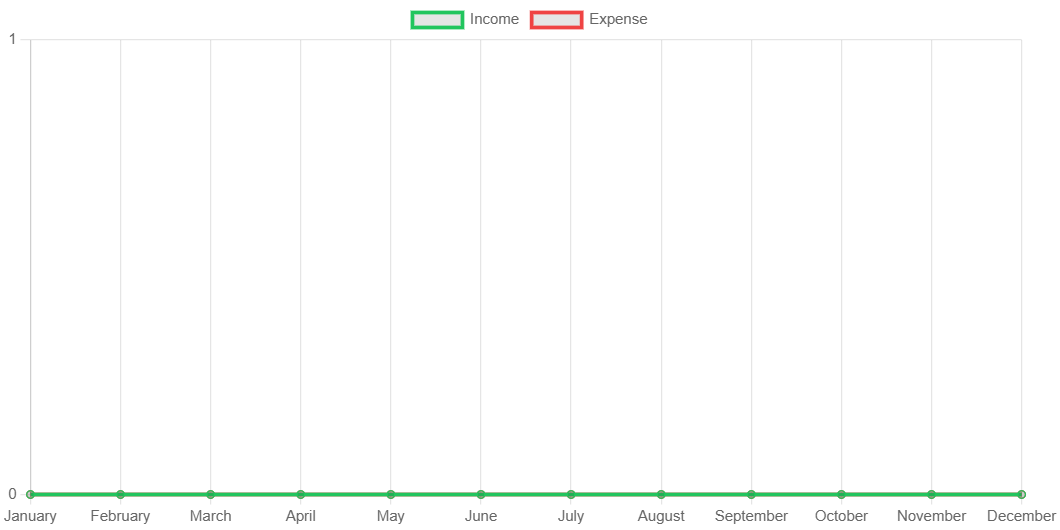
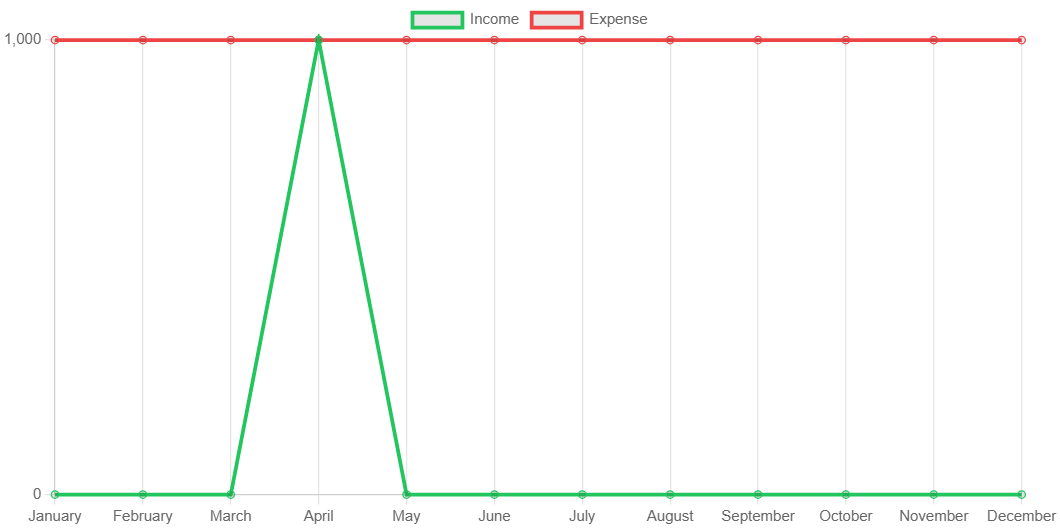
commit-39#23042025(final)

diff --git a/expensetracker/src/main/resources/templates/user-access-url/add-expense.html b/expensetracker/src/main/resources/templates/user-access-url/add-expense.html
@@ -58,23 +58,30 @@
                         Category
                     </label>
 
-                    <!-- categories == list passed from the controller to view by addattribute-->
-                    <!-- category == iterator used to iterate over list-->
-                    <select class="w-full p-3 border border-gray-300 rounded-xl bg-gray-100" name="category">
-                        <!-- Check if categories are empty -->
+                    <select class="w-full p-3 border border-gray-300 rounded-xl bg-gray-100"
+                            name="category.categoryID">
+
+                        <!-- If no categories exist -->
                         <option th:if="${categories == null or categories.isEmpty()}" disabled>No categories added</option>
 
-                        <!-- If categories exist, render options -->
-                        <option th:if="${categories != null and not categories.isEmpty()}" value="" >Select a category</option>
+                        <!-- Placeholder option -->
+                        <option th:if="${categories != null and not categories.isEmpty()}"
+                                value="" disabled selected>Select a category</option>
 
-                        <option th:each="category : ${categories}"   th:value="${category.categoryName}" th:text="${category.categoryName}"></option>
+                        <!-- Render categories -->
+                        <option th:each="cat : ${categories}"
+                                th:value="${cat.categoryID}"
+                                th:text="${cat.categoryName}"
+                                th:selected="${expense.category != null and expense.category.categoryID == cat.categoryID}">
+                        </option>
                     </select>
 
-                    <div th:if="${#fields.hasErrors('category')}" class="text-red-500 text-sm mt-1">
-                        <p th:each="e : ${#fields.errors('category')}" th:text="${e}"></p>
+                    <!-- Field-level validation message -->
+                    <div th:if="${#fields.hasErrors('category.categoryID')}" class="text-red-500 text-sm mt-1">
+                        <p th:each="e : ${#fields.errors('category.categoryID')}" th:text="${e}"></p>
                     </div>
-
                 </div>
+
 
 
                 <div>

diff --git a/expensetracker/src/main/java/com/codelab/expensetracker/controllers/UserAccessUrlController.java b/expensetracker/src/main/java/com/codelab/expensetracker/controllers/UserAccessUrlController.java
@@ -613,54 +613,39 @@ public class UserAccessUrlController {
         return "user-access-url/add-expense";
     }
 
-    
+
     @PostMapping("/add-expense-process")
-    public String addExpenseForm(@Valid @ModelAttribute("expense") @DateTimeFormat(iso = DateTimeFormat.ISO.DATE) Expense expense,
+    public String addExpenseForm(@Valid @ModelAttribute("expense") Expense expense,
                                  BindingResult bindingResult,
                                  Model model,
-                                 Principal principal,
-                                 @RequestParam("category") String category){
+                                 Principal principal) {
         String name = principal.getName();
         User user = this.userRepository.getUserByName(name);
         model.addAttribute("user", user);
 
-        try {
-            if (bindingResult.hasErrors()) {
-                List<Category> categoryList = this.categoryRepository.ListOfCategoryByUser(user.getUserId());
-                model.addAttribute("categories", categoryList);
-                System.out.println("failed");
-                System.out.println(bindingResult.getAllErrors());
-                return "user-access-url/add-expense";
-            }
-
-            if (category == null) {
-                bindingResult.rejectValue("category", "error.category", "Please select category");
-            }
-        } catch (Exception e) {
-            e.printStackTrace();
+        if (bindingResult.hasErrors()) {
+            List<Category> categoryList = this.categoryRepository.ListOfCategoryByUser(user.getUserId());
+            model.addAttribute("categories", categoryList);
+            model.addAttribute("page", "addExpense");
+            return "user-access-url/add-expense";
         }
 
-        // Convert the bound LocalDate to LocalDateTime 
+        // Set user and datetime
+        expense.setUser(user);
         if (expense.getDate() != null) {
-            LocalTime currentTime = LocalTime.now();
-            expense.setLocalDateTime(LocalDateTime.of(expense.getDate(), currentTime));
+            expense.setLocalDateTime(LocalDateTime.of(expense.getDate(), LocalTime.now()));
         }
 
-        
-
-        System.out.println(expense.toString());
+        this.expenseRepository.save(expense);
         List<Category> categoryList = this.categoryRepository.ListOfCategoryByUser(user.getUserId());
         model.addAttribute("categories", categoryList);
-        
-        System.out.println(expense.getLocalDateTime());
-        
-        expense.setUser(user);
-        this.expenseRepository.save(expense);
+        model.addAttribute("page", "addExpense");
 
         return "user-access-url/add-expense";
     }
 
-@GetMapping("/expense-history/{page}")
+
+    @GetMapping("/expense-history/{page}")
 public String expenseHistory(
         Model model,
         Principal principal,
@@ -836,8 +821,11 @@ public String expenseHistory(
         Double totalIncome = null;  
         Double netSavings = null;
 
-        LocalDateTime startOfMonth = LocalDate.now().withDayOfMonth(1).atStartOfDay();
-        LocalDateTime endOfMonth = LocalDate.now().withDayOfMonth(LocalDate.now().lengthOfMonth()).atTime(LocalTime.MAX);
+        LocalDateTime startOfMonth = LocalDate.of(2025, 4, 1).atStartOfDay();
+        LocalDateTime endOfMonth = LocalDate.of(2025, 4, 30).atTime(LocalTime.MAX);
+
+        //LocalDateTime startOfMonth = LocalDate.now().withDayOfMonth(1).atStartOfDay();
+        //LocalDateTime endOfMonth = LocalDate.now().withDayOfMonth(LocalDate.now().lengthOfMonth()).atTime(LocalTime.MAX);
 
         int month = LocalDate.now().getMonthValue();
         int year = LocalDate.now().getYear();
@@ -848,13 +836,13 @@ public String expenseHistory(
         switch (duration) {
             case "monthly":
                 totalExpense = this.expenseRepository.findSumOfExpensesForCurrentMonth(user, startOfMonth, endOfMonth);
-                System.out.println(totalExpense);
+                System.out.println(startOfMonth);
+                System.out.println(endOfMonth);
                 totalIncome = this.incomeRepository.findSumOfIncomeForCurrentMonth(user, startOfMonth, endOfMonth);
+                System.out.println(totalIncome);
                 totalExpense = (totalExpense == null) ? 0.0 : totalExpense;
                 totalIncome = (totalIncome == null) ? 0.0 : totalIncome;
                 
-                
-
                 netSavings = totalIncome - totalExpense;
                 break;
 
@@ -875,8 +863,8 @@ public String expenseHistory(
                 LocalDateTime startOfQuarter = startDate.atStartOfDay();
                 LocalDateTime endOfQuarter = endDate.atTime(LocalTime.MAX);
 
-                totalExpense = this.expenseRepository.findSumOfExpenseForQuarter(user, startOfQuarter, endOfQuarter);
-                totalIncome = this.incomeRepository.findSumOfIncomeForQuarter(user, startOfQuarter, endOfQuarter);
+                totalExpense = this.expenseRepository.findSumOfExpenseForCurrentQuarter(user, startOfQuarter, endOfQuarter);
+                totalIncome = this.incomeRepository.findSumOfIncomeForCurrentQuarter(user, startOfQuarter, endOfQuarter);
                 totalExpense = (totalExpense != null) ? totalExpense : 0.0;
                 totalIncome = (totalIncome != null) ? totalIncome : 0.0;
 
@@ -891,8 +879,8 @@ public String expenseHistory(
                 LocalDateTime startOfYear = startDate.atStartOfDay();
                 LocalDateTime endOfYear = endDate.atTime(LocalTime.MAX);
 
-                totalIncome = this.incomeRepository.findSumOfIncomeForYear(user, startOfYear, endOfYear);
-                totalExpense = this.expenseRepository.findSumOfExpenseForYear(user, startOfYear, endOfYear);
+                totalIncome = this.incomeRepository.findSumOfIncomeForCurrentYear(user, startOfYear, endOfYear);
+                totalExpense = this.expenseRepository.findSumOfExpenseForCurrentYear(user, startOfYear, endOfYear);
                 totalExpense = (totalExpense != null) ? totalExpense : 0.0;
                 totalIncome = (totalIncome != null) ? totalIncome : 0.0;
 

diff --git a/expensetracker/src/main/java/com/codelab/expensetracker/repositories/ExpenseRepository.java b/expensetracker/src/main/java/com/codelab/expensetracker/repositories/ExpenseRepository.java
@@ -26,21 +26,27 @@ public interface ExpenseRepository extends JpaRepository<Expense, Integer>, JpaS
     Page<Expense> findTransactionsByUser(@Param("user") User user, Pageable pageable);
     
     @Query("SELECT SUM(e.amount)  From Expense e WHERE e.user = :user ")
-    double findSumOfExpensesOfUserByUser(@Param("user") User user);
+    Double findSumOfExpensesOfUserByUser(@Param("user") User user);
+    
+    
+    
+    
+    
+    
 
-    @Query("SELECT COALESCE(SUM(e.amount), 0.0) FROM Expense e WHERE e.user = :user AND e.dateTime BETWEEN :startOfMonth AND :endOfMonth")
+    @Query("SELECT SUM(e.amount) FROM Expense e WHERE e.user = :user AND e.dateTime BETWEEN :startOfMonth AND :endOfMonth")
      Double findSumOfExpensesForCurrentMonth(@Param("user") User user,
                                             @Param("startOfMonth") LocalDateTime startOfMonth,
                                             @Param("endOfMonth") LocalDateTime endOfMonth);
 
 
     @Query("SELECT SUM(e.amount) FROM Expense e WHERE e.user = :user AND e.dateTime BETWEEN :startOfQuarter AND :endOfQuarter")
-    Double findSumOfExpenseForQuarter(@Param("user") User user,
+    Double findSumOfExpenseForCurrentQuarter(@Param("user") User user,
                                      @Param("startOfQuarter") LocalDateTime startOfQuarter,
                                      @Param("endOfQuarter") LocalDateTime endOfQuarter);
 
     @Query("SELECT SUM(e.amount) FROM Expense e WHERE e.user = :user AND e.dateTime BETWEEN :startOfYear AND :endOfYear")
-    Double findSumOfExpenseForYear(@Param("user") User user,
+    Double findSumOfExpenseForCurrentYear(@Param("user") User user,
                                   @Param("startOfYear") LocalDateTime startOfYear,
                                   @Param("endOfYear") LocalDateTime endOfYear);
     

diff --git a/expensetracker/src/main/java/com/codelab/expensetracker/services/PDFservice.java b/expensetracker/src/main/java/com/codelab/expensetracker/services/PDFservice.java
@@ -148,8 +148,8 @@ public class PDFservice {
                 LocalDateTime startOfQuarter = startDate.atStartOfDay();
                 LocalDateTime endOfQuarter = endDate.atTime(LocalTime.MAX);
 
-                totalExpense=this.expenseRepository.findSumOfExpenseForQuarter(user, startOfQuarter, endOfQuarter);
-                totalIncome=this.incomeRepository.findSumOfIncomeForQuarter(user, startOfQuarter, endOfQuarter);
+                totalExpense=this.expenseRepository.findSumOfExpenseForCurrentQuarter(user, startOfQuarter, endOfQuarter);
+                totalIncome=this.incomeRepository.findSumOfIncomeForCurrentQuarter(user, startOfQuarter, endOfQuarter);
                 totalExpense = (totalExpense != null) ? totalExpense : 0.0;
                 totalIncome = (totalIncome != null) ? totalIncome : 0.0;
 
@@ -177,8 +177,8 @@ public class PDFservice {
                 LocalDateTime startOfYear = startDate.atStartOfDay();
                 LocalDateTime endOfYear = endDate.atTime(LocalTime.MAX);
 
-                totalIncome = this.incomeRepository.findSumOfIncomeForYear(user, startOfYear, endOfYear);
-                totalExpense = this.expenseRepository.findSumOfExpenseForYear(user, startOfYear, endOfYear);
+                totalIncome = this.incomeRepository.findSumOfIncomeForCurrentYear(user, startOfYear, endOfYear);
+                totalExpense = this.expenseRepository.findSumOfExpenseForCurrentYear(user, startOfYear, endOfYear);
                 totalExpense = (totalExpense != null) ? totalExpense : 0.0;
                 totalIncome = (totalIncome != null) ? totalIncome : 0.0;
 

diff --git a/expensetracker/src/main/java/com/codelab/expensetracker/repositories/IncomeRepository.java b/expensetracker/src/main/java/com/codelab/expensetracker/repositories/IncomeRepository.java
@@ -23,7 +23,7 @@ public interface IncomeRepository extends JpaRepository<Income, Integer> , JpaSp
     Page<Income> findTransactionsByUser(@Param("user") User user, Pageable pageable);
     
     @Query("SELECT SUM(i.amount)  From Income i WHERE i.user = :user ")
-    double findSumOfIncomeOfUserByUser(@Param("user") User user);
+    Double findSumOfIncomeOfUserByUser(@Param("user") User user);
 
     @Query("SELECT COALESCE (SUM(i.amount), 0.0) FROM Income i WHERE i.user = :user AND i.dateTime BETWEEN :startOfMonth AND :endOfMonth")
     Double findSumOfIncomeForCurrentMonth(@Param("user") User user,
@@ -32,12 +32,12 @@ public interface IncomeRepository extends JpaRepository<Income, Integer> , JpaSp
 
 
     @Query("SELECT SUM(i.amount) FROM Income i WHERE i.user = :user AND i.dateTime BETWEEN :startOfQuarter AND :endOfQuarter")
-    Double findSumOfIncomeForQuarter(@Param("user") User user,
+    Double findSumOfIncomeForCurrentQuarter(@Param("user") User user,
                                      @Param("startOfQuarter") LocalDateTime startOfQuarter,
                                      @Param("endOfQuarter") LocalDateTime endOfQuarter);
 
     @Query("SELECT SUM(i.amount) FROM Income i WHERE i.user = :user AND i.dateTime BETWEEN :startOfYear AND :endOfYear")
-    Double findSumOfIncomeForYear(@Param("user") User user,
+    Double findSumOfIncomeForCurrentYear(@Param("user") User user,
                                   @Param("startOfYear") LocalDateTime startOfYear,
                                   @Param("endOfYear") LocalDateTime endOfYear);
 

diff --git a/expensetracker/src/main/java/com/codelab/expensetracker/repositories/CategoryRepository.java b/expensetracker/src/main/java/com/codelab/expensetracker/repositories/CategoryRepository.java
@@ -17,6 +17,10 @@ public interface CategoryRepository  extends JpaRepository<Category, String> {
     @Query("from Category c where c.user.userId = :id")
     Page<Category> findCategoriesByUser (@Param("id") int id, Pageable pageable);
 
+    @Query("SELECT c.categoryID FROM Category c WHERE c.categoryName = :name AND c.user.userId = :id")
+    Integer findByCategoryIDByNameAndUser(@Param("name") String name, @Param("id") int id);
+
+
     // query will return a list of Category objects.
     @Query("from Category c where c.user.userId = :id")
     List<Category> ListOfCategoryByUser(@Param("id") int id);
@@ -32,7 +36,7 @@ public interface CategoryRepository  extends JpaRepository<Category, String> {
     // reports
 
     //for current month
-    @Query(value = "SELECT c.categoryName, SUM(e.amount) " +
+    @Query( "SELECT c.categoryName, SUM(e.amount) " +
             "FROM Expense e " +
             "JOIN Category c ON e.category.categoryName = c.categoryName " +
             "WHERE e.user = :user " +
@@ -40,7 +44,7 @@ public interface CategoryRepository  extends JpaRepository<Category, String> {
             "AND EXTRACT(YEAR FROM e.dateTime) = EXTRACT(YEAR FROM CURRENT_DATE) " +
             "AND EXTRACT(MONTH FROM e.dateTime) = EXTRACT(MONTH FROM CURRENT_DATE) " +
             "GROUP BY c.categoryName "+
-            "ORDER BY SUM(e.amount) DESC", nativeQuery = false)
+            "ORDER BY SUM(e.amount) DESC")
     List<Object[]> getCurrentMonthCategorySums(@Param("user") User user);
 
     

diff --git a/expensetracker/src/main/java/com/codelab/expensetracker/models/Category.java b/expensetracker/src/main/java/com/codelab/expensetracker/models/Category.java
@@ -11,6 +11,9 @@ public class Category {
 
    
     @Id
+    @GeneratedValue(strategy = GenerationType.AUTO)
+    private int categoryID;
+
     @NotBlank(message = "Category name cannot be blank")
     @Size(min = 2, max = 50, message = "Category name must be between 2 and 50 characters")
     private String categoryName;
@@ -30,10 +33,11 @@ public class Category {
         this.categoryMonthlyBudget = categoryMonthlyBudget;
     }
 
-    public Category(String categoryName, double categoryMonthlyBudget, User user) {
-        this.categoryName = categoryName;
-        this.categoryMonthlyBudget = categoryMonthlyBudget;
+    public Category(int categoryID, User user, double categoryMonthlyBudget, String categoryName) {
+        this.categoryID = categoryID;
         this.user = user;
+        this.categoryMonthlyBudget = categoryMonthlyBudget;
+        this.categoryName = categoryName;
     }
 
     // Getters and Setters
@@ -61,7 +65,12 @@ public class Category {
         this.user = user;
     }
 
-    
-    
-    
+
+    public int getCategoryID() {
+        return categoryID;
+    }
+
+    public void setCategoryID(int categoryID) {
+        this.categoryID = categoryID;
+    }
 }

diff --git a/expensetracker/src/main/java/com/codelab/expensetracker/models/Expense.java b/expensetracker/src/main/java/com/codelab/expensetracker/models/Expense.java
@@ -27,6 +27,7 @@ public class Expense {
     private double amount;
 
     @ManyToOne
+    @JoinColumn(name = "category_id", referencedColumnName = "categoryID")
     private Category category;
 
     @NotBlank(message = "Payment method cannot be blank")

diff --git a/expensetracker/src/main/java/com/codelab/expensetracker/services/CategoryService.java b/expensetracker/src/main/java/com/codelab/expensetracker/services/CategoryService.java
@@ -37,6 +37,11 @@ public class CategoryService {
     }
     
     
+    
+    
+    
+    
+    
     //report
     public Map<String, Double> getCurrentMonthCategorySums(User user) {
         // Fetch the sorted monthly sums in descending order
